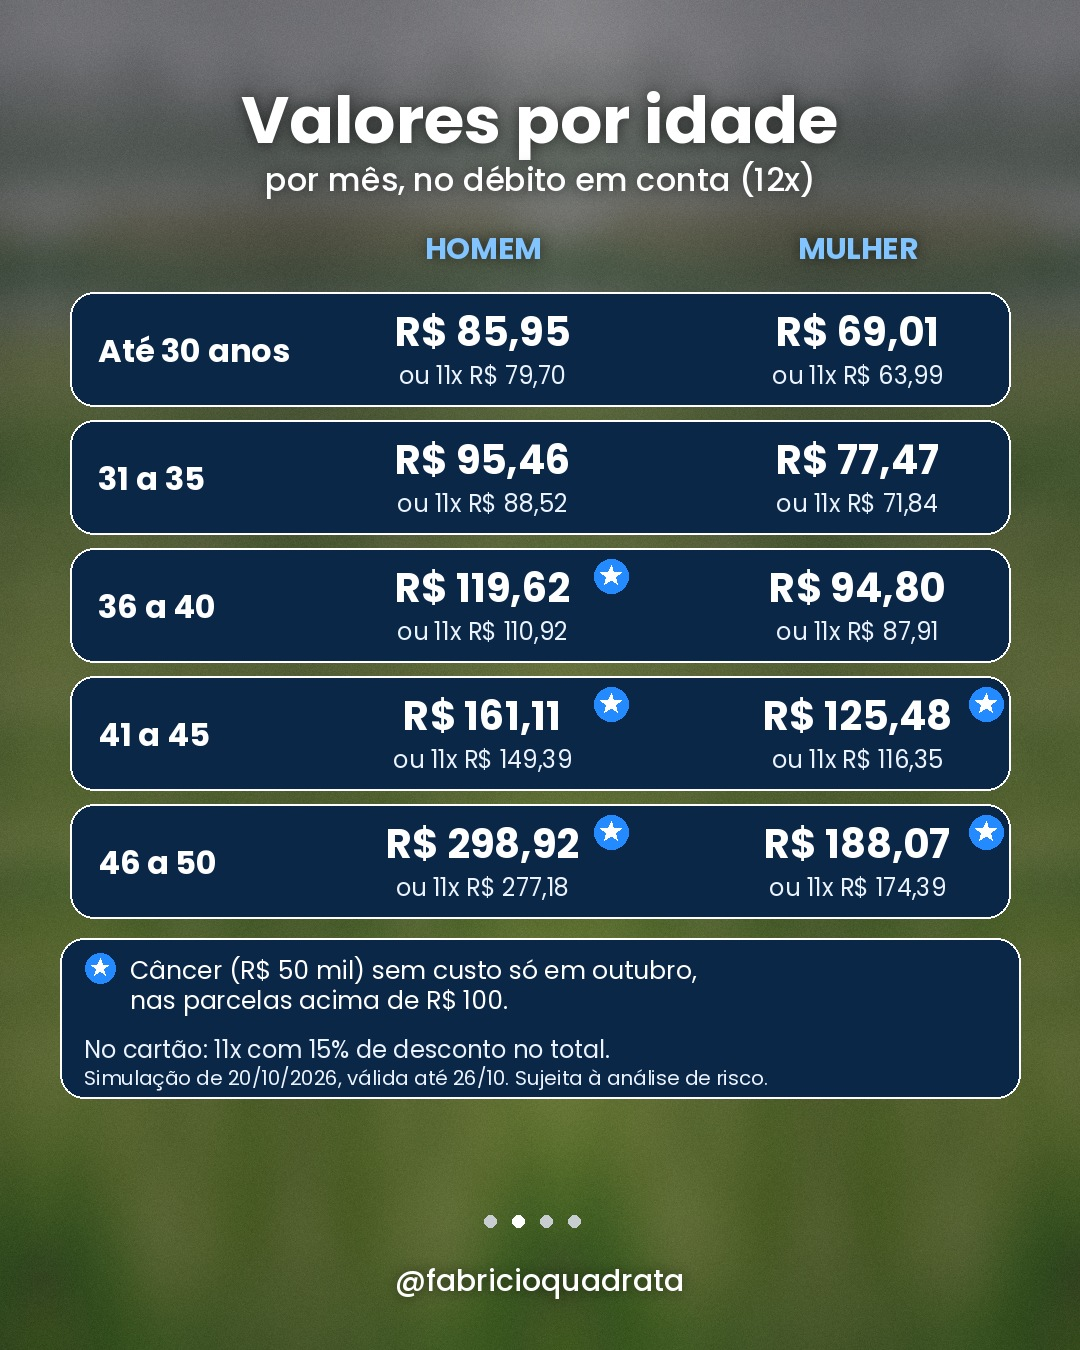
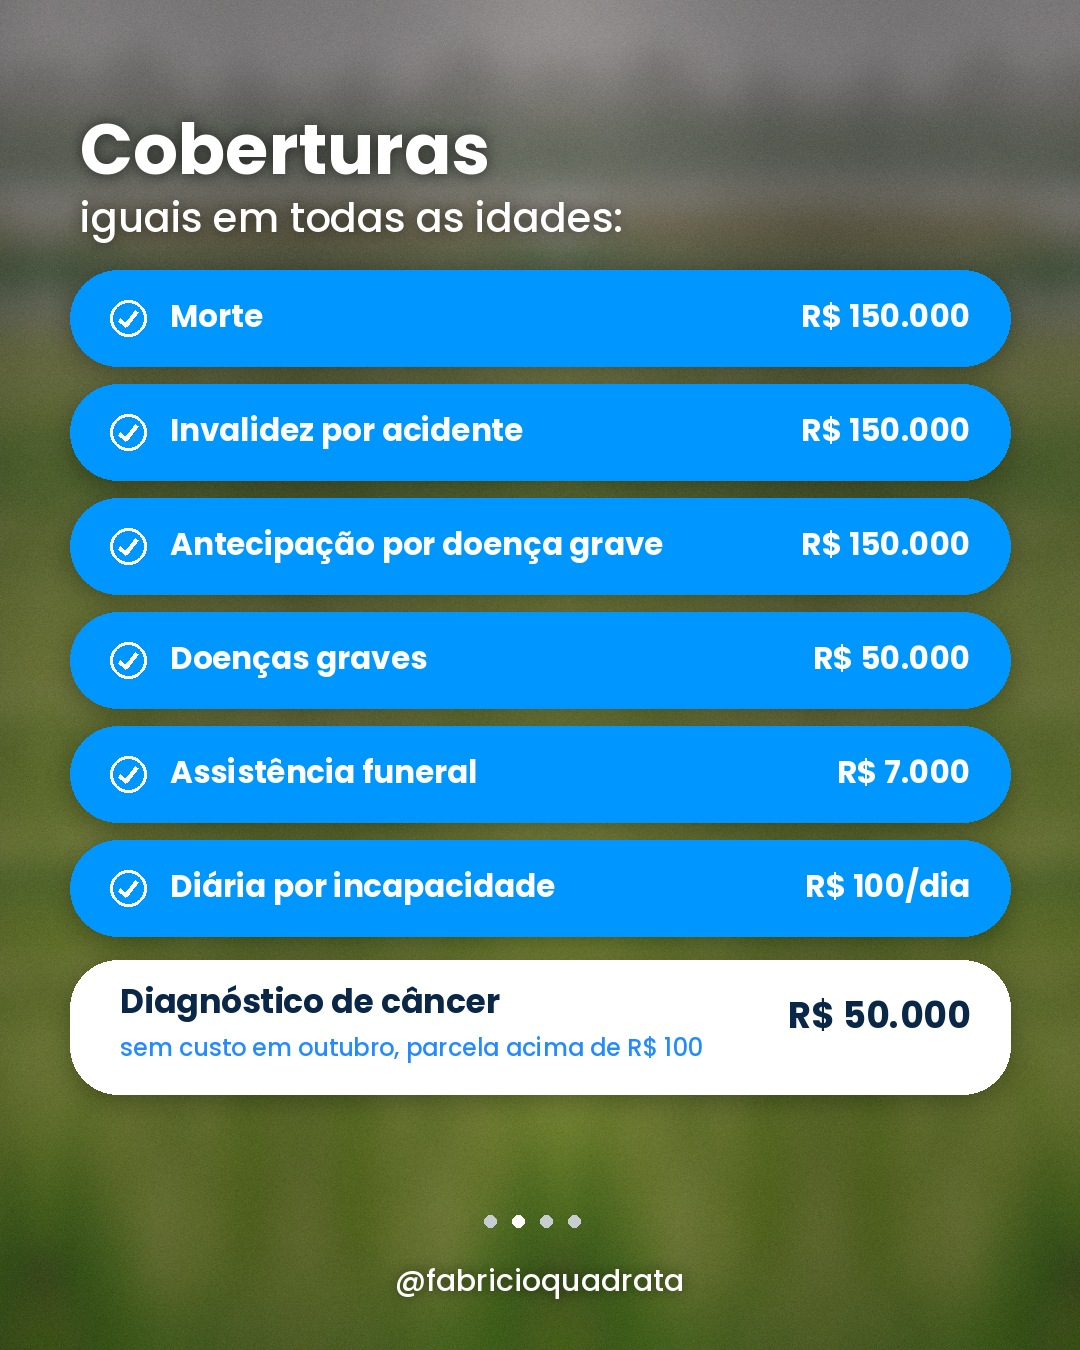
Post 018: coberturas antes dos valores (troca slides 2 e 3)
Claude-Session: https://claude.ai/code/session_01Bu7jAGg4Kb6zrtwfSQtQAq

diff --git a/posts/018_seguro_vida_cinema/gerar_slides.py b/posts/018_seguro_vida_cinema/gerar_slides.py
@@ -163,8 +163,8 @@ d.text((650, 970), 'por mês', font=f('Medium', 22), fill=NAVY)
 d.line((830, 1180, 990, 1180), fill=WHITE, width=4); d.line((960, 1160, 992, 1180, 960, 1200), fill=WHITE, width=4, joint='curve')
 footer(im, 0); salvar(im, 1)
 
-# Slide 2 — tabela
-im = fatia(1, desfoque=10, escuro=0.20); d = ImageDraw.Draw(im)
+# Slide 3 — tabela
+im = fatia(2, desfoque=10, escuro=0.20); d = ImageDraw.Draw(im)
 texto_sombra(im, (W / 2, 120), 'Valores por idade', f('Bold', 66), WHITE, 'mm')
 texto_sombra(im, (W / 2, 180), 'por mês, no débito em conta (12x)', f('Medium', 32), WHITE, 'mm')
 XL, XH, XM, CW = 70, 330, 705, 305
@@ -187,10 +187,10 @@ d.text((130, y + 14), 'Câncer (R$ 50 mil) sem custo só em outubro,', font=f('R
 d.text((130, y + 44), 'nas parcelas acima de R$ 100.', font=f('Regular', 25), fill=WHITE)
 d.text((84, y + 94), 'No cartão: 11x com 15% de desconto no total.', font=f('Regular', 24), fill=LIGHT)
 d.text((84, y + 126), 'Simulação de 20/10/2026, válida até 26/10. Sujeita à análise de risco.', font=f('Regular', 20), fill=LIGHT)
-footer(im, 1); salvar(im, 2)
+footer(im, 2); salvar(im, 3)
 
-# Slide 3 — coberturas em pílulas azuis (como na referência)
-im = fatia(2, desfoque=6, escuro=0.10); d = ImageDraw.Draw(im)
+# Slide 2 — coberturas em pílulas azuis (como na referência)
+im = fatia(1, desfoque=6, escuro=0.10); d = ImageDraw.Draw(im)
 texto_sombra(im, (80, 100), 'Coberturas', f('Bold', 70), WHITE)
 texto_sombra(im, (80, 190), 'iguais em todas as idades:', f('Medium', 40), WHITE)
 ITENS = [('Morte', 'R$ 150.000'), ('Invalidez por acidente', 'R$ 150.000'), ('Antecipação por doença grave', 'R$ 150.000'),
@@ -208,7 +208,7 @@ d.rounded_rectangle((70, y + 6, W - 70, y + 140), radius=48, fill=WHITE)
 d.text((120, y + 24), 'Diagnóstico de câncer', font=f('Bold', 33), fill=NAVY)
 d.text((120, y + 76), 'sem custo em outubro, parcela acima de R$ 100', font=f('Medium', 24), fill=BLUE)
 rtext(d, W - 110, y + 36, 'R$ 50.000', f('Bold', 36), NAVY)
-footer(im, 2); salvar(im, 3)
+footer(im, 1); salvar(im, 2)
 
 # Slide 4 — chamada: modelo à direita, texto na grama à esquerda
 im = fatia(3)
